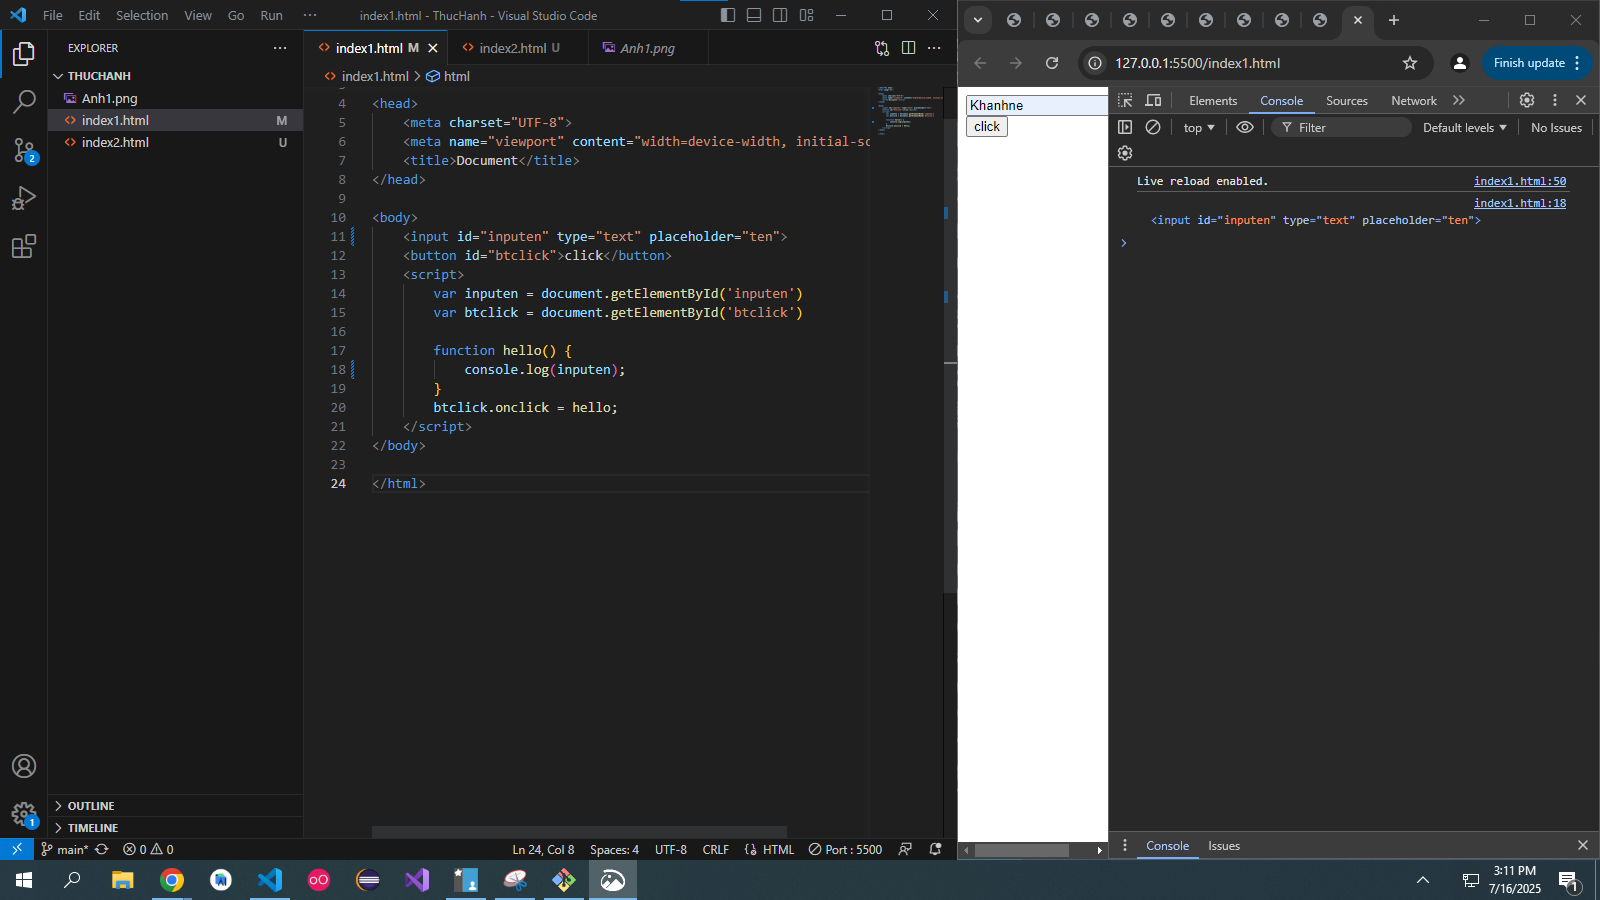
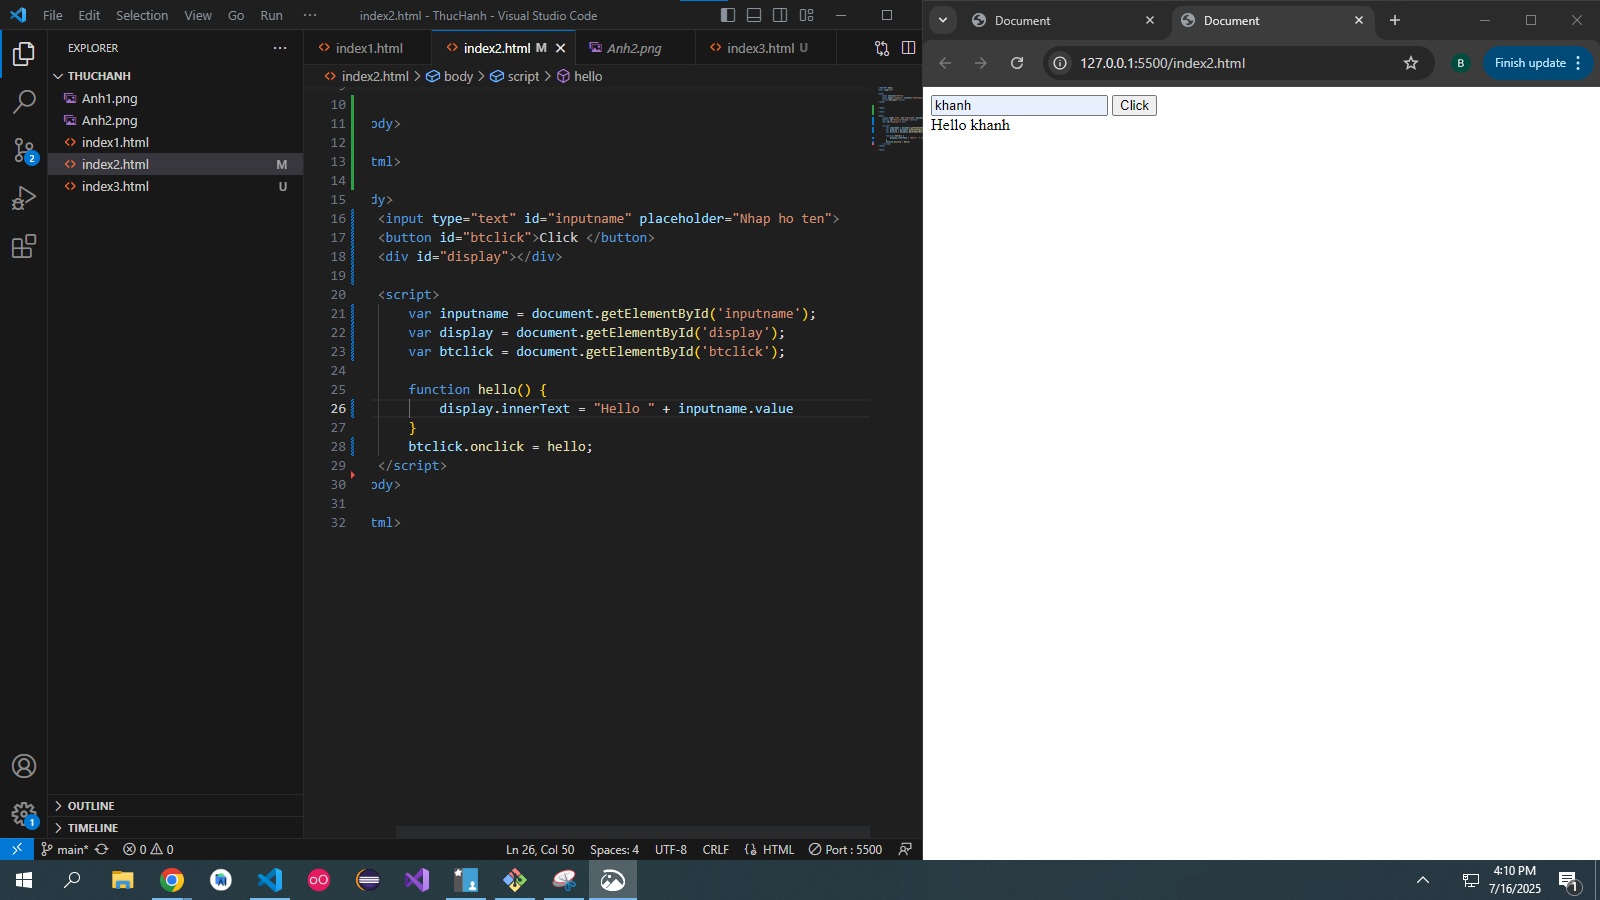
Cau2

diff --git a/index2.html b/index2.html
@@ -7,24 +7,26 @@
     <title>Document</title>
 </head>
 
+
+</body>
+
+</html>
+
 <body>
-    <input id="ten" type="text" placeholder="nhapchu">
-    <button id="btclick">click</button>
-    <p id="display"></p>
+    <input type="text" id="inputname" placeholder="Nhap ho ten">
+    <button id="btclick">Click </button>
+    <div id="display"></div>
+
     <script>
-        var ten = document.getElementById('ten')
-        var btclick = document.getElementById('btclick')
-        var display = document.getElementById('display')
+        var inputname = document.getElementById('inputname');
+        var display = document.getElementById('display');
+        var btclick = document.getElementById('btclick');
 
         function hello() {
-            console.log(ten);
-            display.innerText = ten.value
-
+            display.innerText = "Hello " + inputname.value
         }
-
-        btclick.onclick = hello
+        btclick.onclick = hello;
     </script>
-
 </body>
 
 </html>

diff --git a/index3.html b/index3.html
@@ -1,0 +1,31 @@
+<!DOCTYPE html>
+<html lang="en">
+
+<head>
+    <meta charset="UTF-8">
+    <meta name="viewport" content="width=device-width, initial-scale=1.0">
+    <title>Document</title>
+</head>
+
+<body>
+    <input type="text" id="nameInput" placeholder="Nhập tên của bạn">
+    <button onclick="checkInput()">Click me</button>
+    <div id="output"></div>
+
+    <script>
+        function checkInput() {
+            const input = document.getElementById('nameInput').value;
+            const output = document.getElementById('output');
+
+            if (input.trim() === '') {
+                output.textContent = 'Bạn chưa nhập gì cả!';
+            } else if (!isNaN(input)) {
+                output.textContent = 'Bạn mới vừa nhập số';
+            } else {
+                output.textContent = 'Bạn mới vừa nhập text';
+            }
+        }
+    </script>
+</body>
+
+</html>
